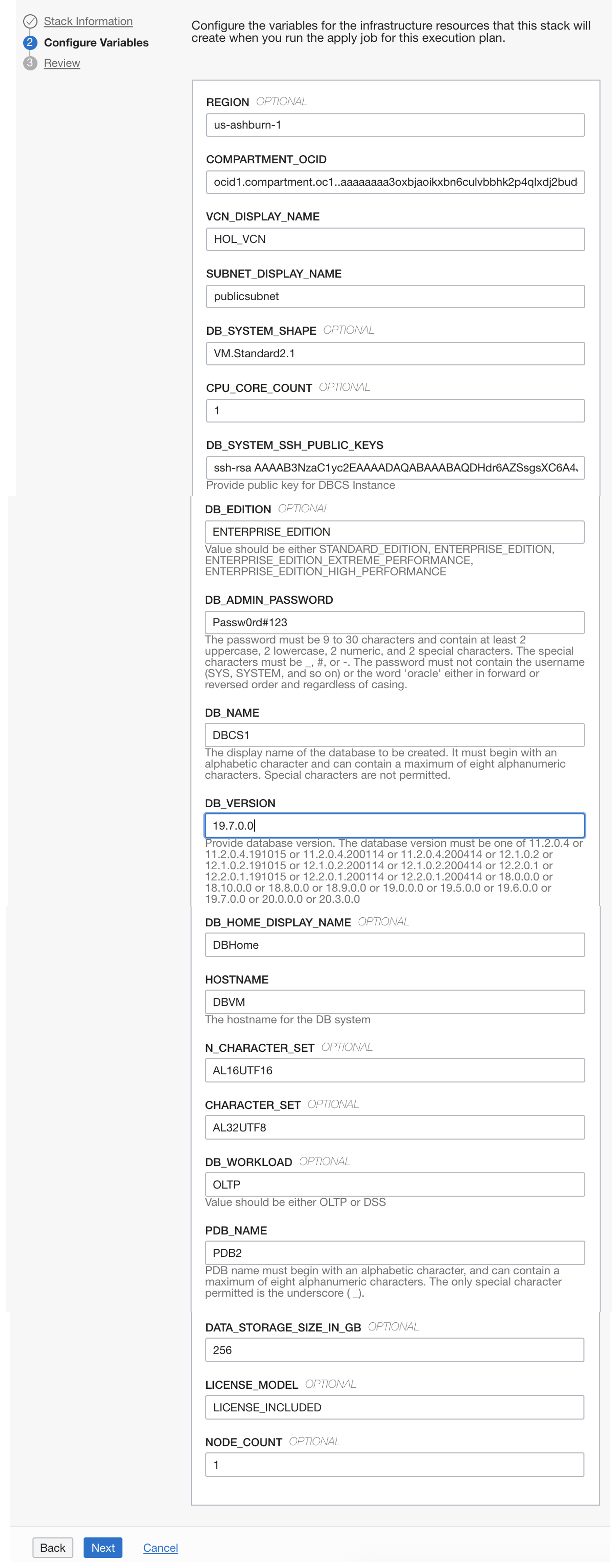
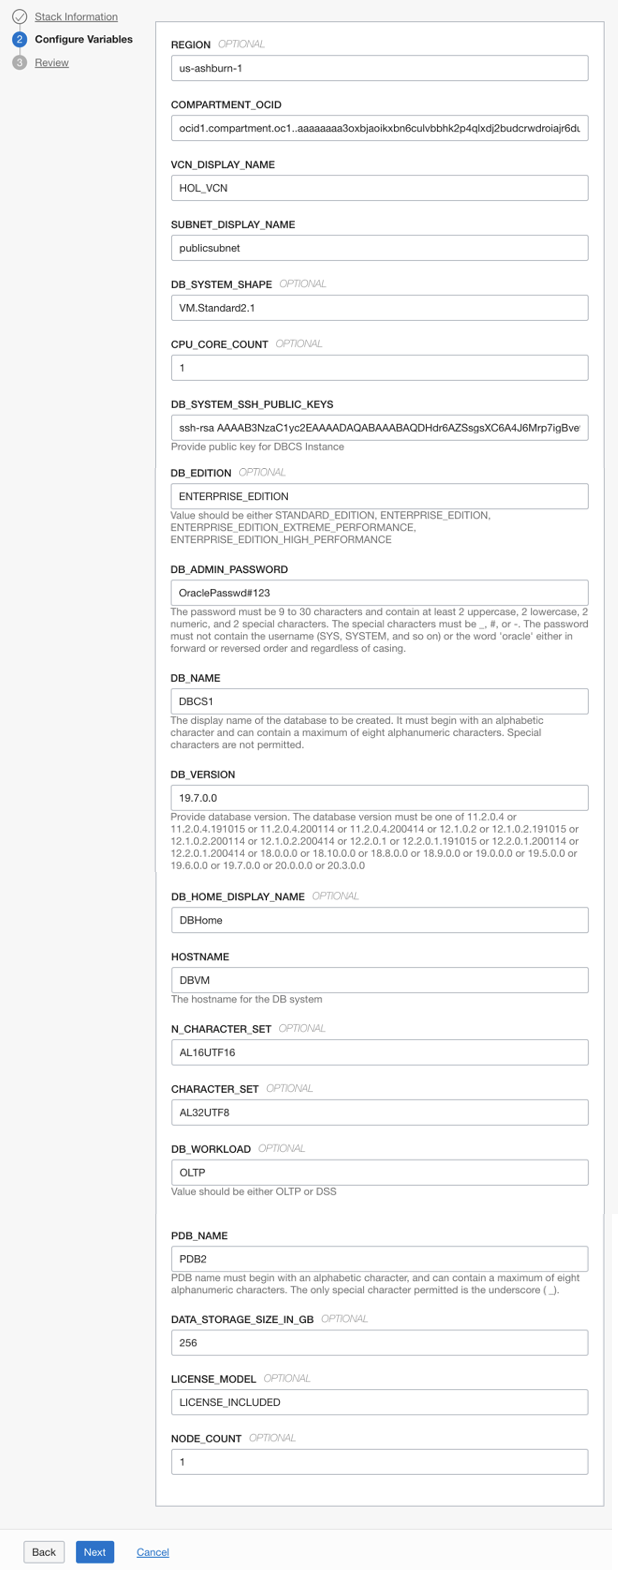
Commit

diff --git a/README.md b/README.md
@@ -133,7 +133,7 @@ Fill in the rest of details as shown below. Once done, click on the <b>Next</b> 
 <hr>
 <li>The Apply Popup page will appear. Click on the <b>Apply</b> button.
 </li>
-<li> Once completed, the Orange RMJ icon will Green (will take a few minutes).
+<li> Once completed, the Orange RMJ icon will turn Green (will take a few minutes).
  Congrats! Your Compute VM is now provisioned. 
 You can verfy this by clicking on the top left hamburger menu and scroll up till you see <b>Compute</b>. Navigate and click on the submenu <b>Instances</b> (shown below)
 <hr>
@@ -166,24 +166,24 @@ Fill in the rest of details as shown below. Once done, click on the <b>Next</b> 
 <hr>
 <li>Review input information is correct, click on the <b>Create</b> button.
 </li>
-<img width="550px" src="/images/ConfirmComputeVM.png"/>
+<img width="550px" src="/images/ConfirmDBCS.png"/>
 <hr>
 <li>Click on <b>Plan</b> as shown in the screenshot below. 
 </li>
-<img width="550px" src="/images/ClickPlanVM.png"/>
+<img width="550px" src="/images/ClickPlanDBCS.png"/>
 <li>On the displayed popup screen, click on <img width="50px" align="middle" src="/images/PlanButton.png"/>.
 </li>
 <hr>
 <li>On the Job Details display, the RMJ icon will turn Orange. After a while, the job will complete and RMJ icon will turn Green. Navigate back to the Stack Details page (shown below)
 </li>
-<img width="500px" src="/images/BacktoStackDetailsVM.png"/>
+<img width="500px" src="/images/BacktoStackDetailsDBCS.png"/>
 <li>Apply the Plan (shown below)</li>
-<img width="500px" src="/images/ApplyPlanVM.png"/>
+<img width="500px" src="/images/ApplyPlanDBCS.png"/>
 <hr>
 <li>The Apply Popup page will appear. Click on the <b>Apply</b> button.
 </li>
-<li> Once completed, the Orange RMJ icon will Green (will take a few minutes).
- Congrats! Your Compute VM is now provisioned. 
+<li> Once completed, the Orange RMJ icon will turn Green (will take a while).
+ Congrats! Your Database is now provisioned. 
 You can verfy this by clicking on the top left hamburger menu and scroll up till you see <b>Compute</b>. Navigate and click on the submenu <b>Instances</b> (shown below)
 <hr>
 </li>
